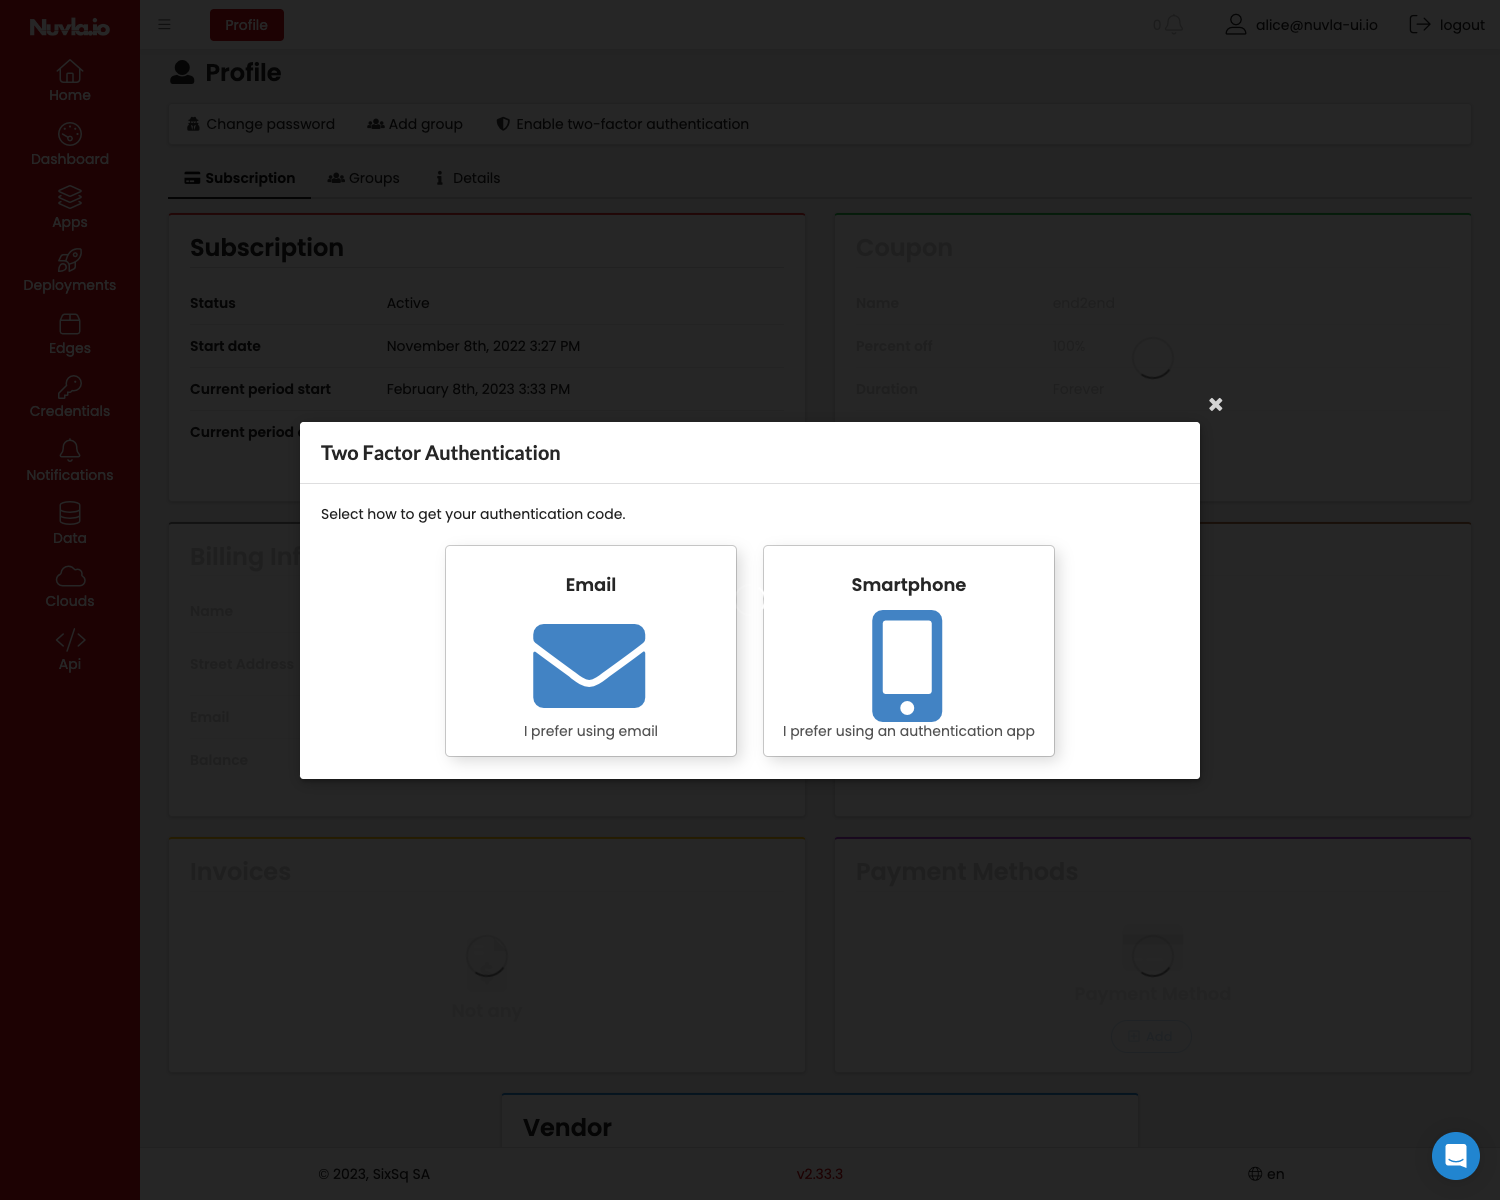
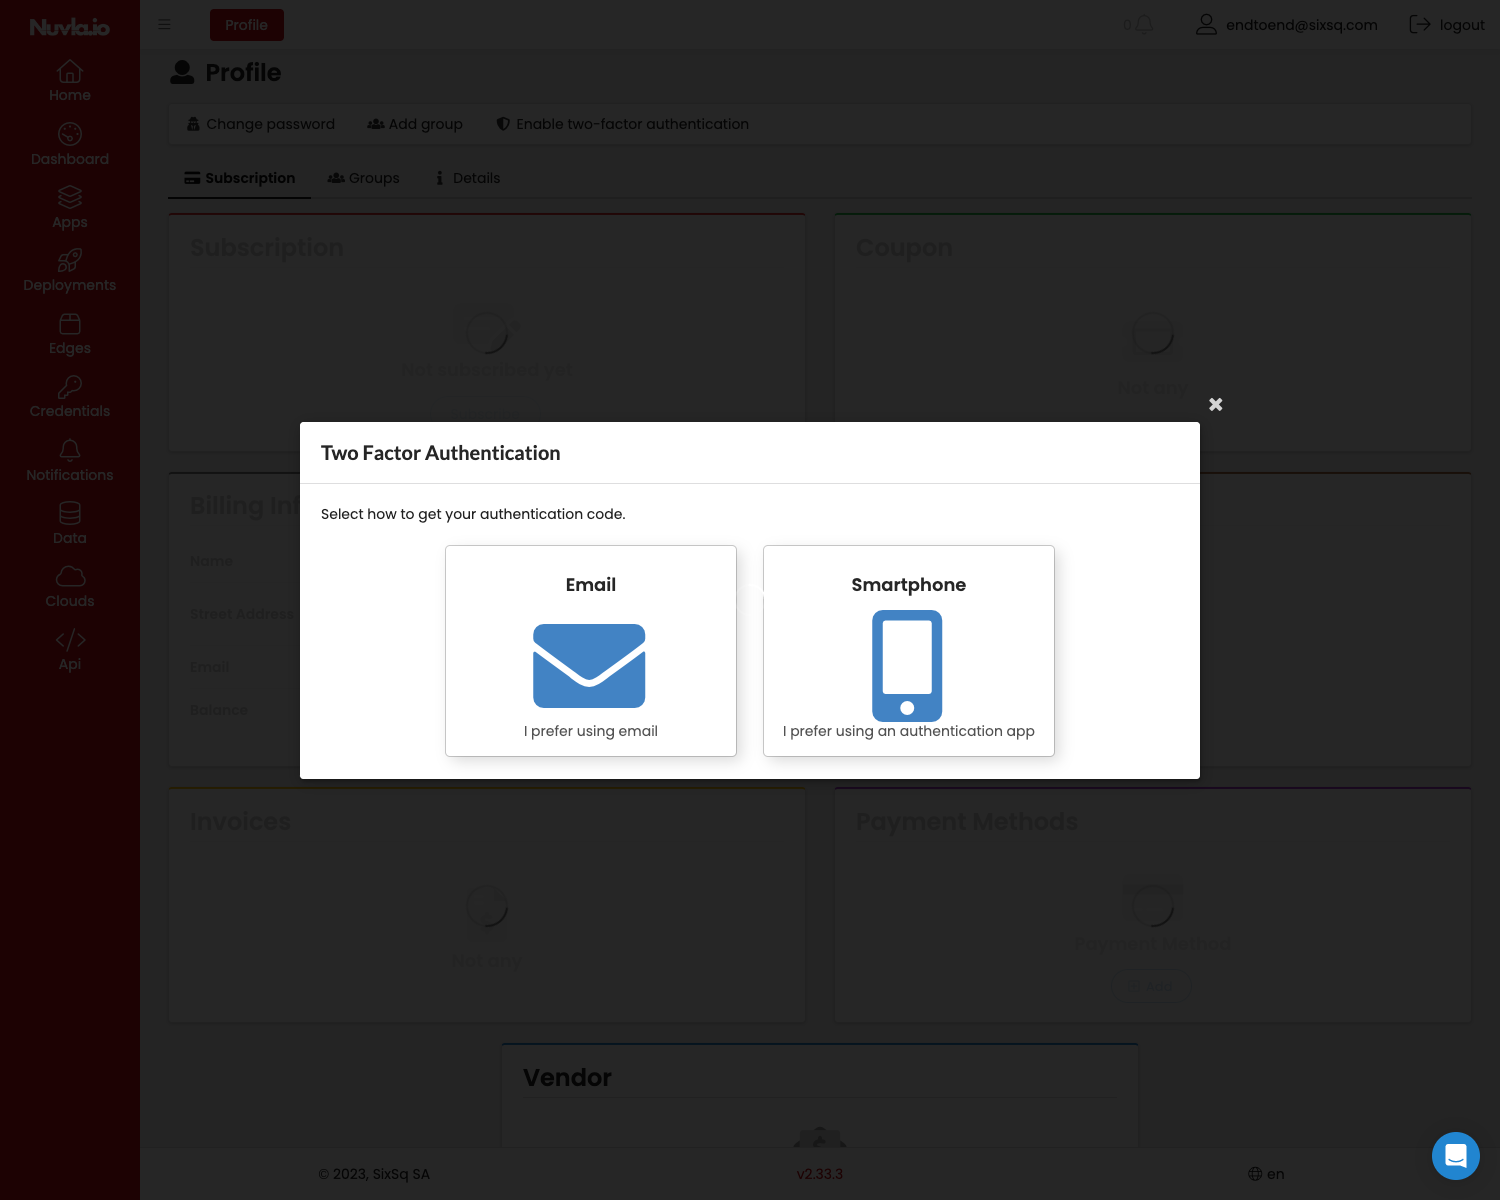
fix screenshot generation

Changed region(s): [[0.3373, 0.8942, 0.3987, 0.9558], [0.1227, 0.185, 0.2147, 0.2158]]

diff --git a/screenshotting/tests/welcome.spec.ts b/screenshotting/tests/welcome.spec.ts
@@ -1,6 +1,6 @@
 import { test, expect } from '@playwright/test';
 import { mockAppData } from './mockAppData';
-import { login } from '../global-setup';
+import { login, username } from '../global-setup';
 
 test.use({
   viewport: {
@@ -12,8 +12,6 @@ test.use({
 async function delay(ms = 5000) {
   return new Promise((resolve) => setTimeout(resolve, ms));
 }
-
-const username = 'alice@nuvla-ui.io';
 
 test('test', async ({}, { config }) => {
   const { baseURL } = config.projects[0].use;

diff --git a/screenshotting/tests/apps.spec.ts b/screenshotting/tests/apps.spec.ts
@@ -13,14 +13,12 @@ async function delay(ms = 5000) {
   return new Promise((resolve) => setTimeout(resolve, ms));
 }
 
-const username = 'alice@nuvla-ui.io';
+const username = 'alice@nuvla.io';
 
 test('test', async ({}, { config }) => {
   const { baseURL } = config.projects[0].use;
 
   const { page, browser } = await login(baseURL, config);
-
-  // await page.pause();
 
   // Setup...
   await page.route('api/session**', async (route) => {

diff --git a/screenshotting/global-setup.js b/screenshotting/global-setup.js
@@ -1,7 +1,7 @@
 // global-setup.js
 const { chromium, expect } = require('@playwright/test');
 
-const username =
+export const username =
   process.env.USER_NAME !== 'null' && process.env.USER_NAME ? process.env.USER_NAME : process.env.UI_E2E_TEST_USERNAME;
 const password =
   process.env.PASSWORD && process.env.PASSWORD !== 'null' ? process.env.PASSWORD : process.env.UI_E2E_TEST_PASSWORD;
